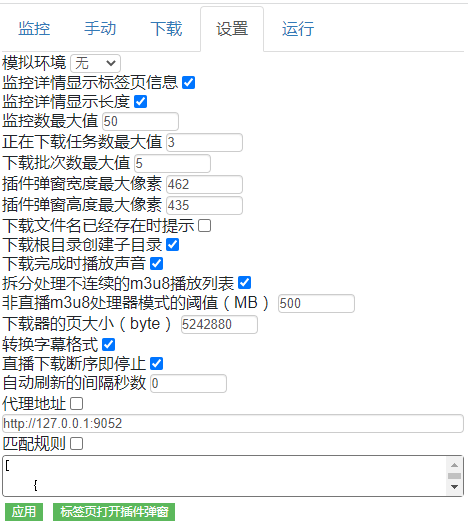
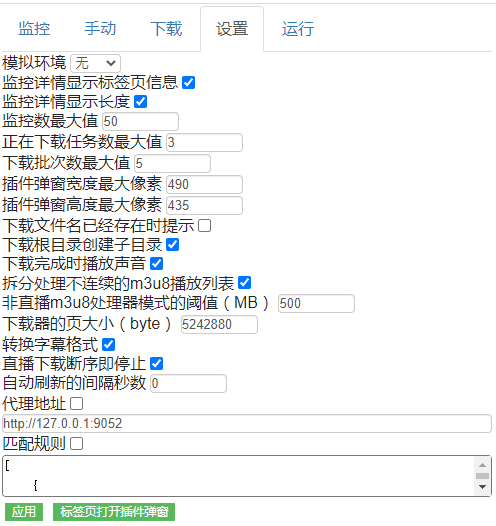
修复界面

diff --git a/js/mychromenotification.js b/js/mychromenotification.js
@@ -41,7 +41,7 @@ var MyChromeNotification = (function () {
 					type: "basic",
 					requireInteraction: true,
 					iconUrl: chrome.extension.getURL("img/icon128.png"),
-					title: chrome.i18n.getMessage("appName") + options.title,
+					title: chrome.i18n.getMessage("appName") + " " + options.title,
 					message: options.message,
 					buttons: [{ title: chrome.i18n.getMessage("notificationYes") }, 
 						{ title: chrome.i18n.getMessage("notificationNo") }]

diff --git a/popup/index.html b/popup/index.html
@@ -113,7 +113,7 @@
 				</div>
 				<div>
 					<label class="not-select" data-msg="settingsPopupWidth">popwidth</label>
-					<input type="number" step="20" min="462" max="4000" id="settings-popwidth" />
+					<input type="number" step="20" min="490" max="4000" id="settings-popwidth" />
 				</div>
 				<div>
 					<label class="not-select" data-msg="settingsPopupHeight">popheight</label>

diff --git a/js/mychromeconfig.js b/js/mychromeconfig.js
@@ -12,7 +12,7 @@ var MyChromeConfig = (function () {
 		monitoredQueueMax: 50,
 		downloadingMax: 3,
 		downloadBatchMax: 5,
-		popupWidth: 462,
+		popupWidth: 490,
 		popupHeight: 435,
 		promptWhenExist: "0",
 		newFolderAtRoot: "1",
